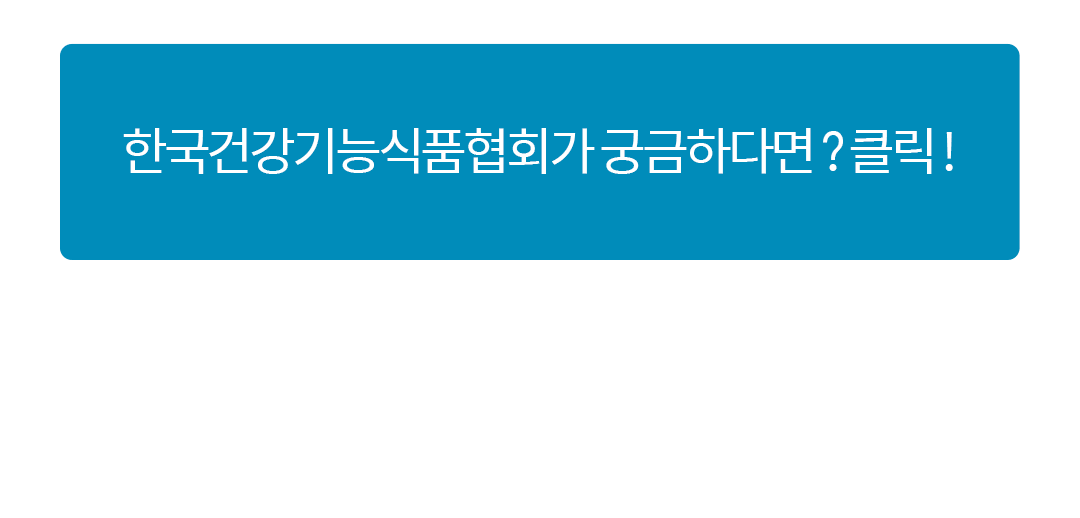
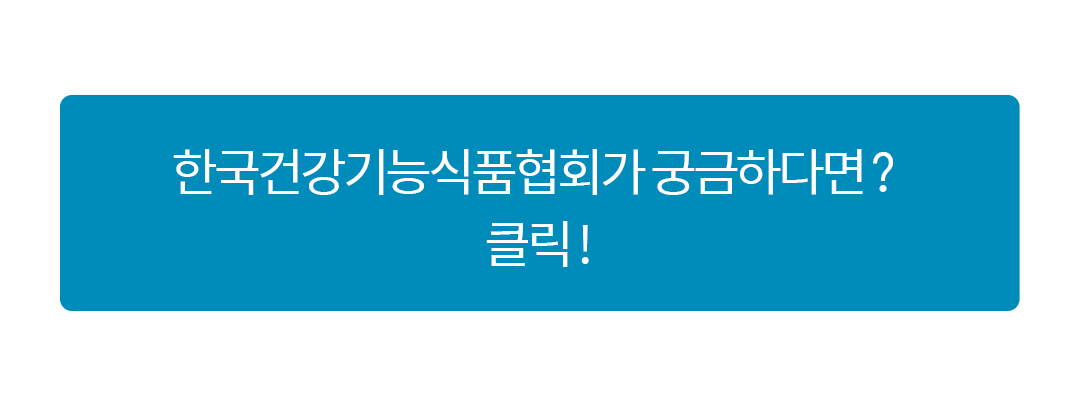
adjust styles

diff --git a/event/css/style.css b/event/css/style.css
@@ -99,7 +99,12 @@
     user-select: none;
     color: #045ebf;
   }
-
+  .prev{
+    margin-left: 5px;
+  }
+  .next{
+    margin-right: 5px;
+  }
   .angle{
     position: relative;
     border: 1px solid;
@@ -184,7 +189,7 @@
 .w-100{
     width: 100%;
 }
-.desktop #section0 {
+#section0 {
   background: rgba(218,238,245,1);
   background: -moz-linear-gradient(top, rgba(218,238,245,1) 0%, rgba(218,238,245,1) 50%, rgba(255,255,255,1) 51%, rgba(255,255,255,1) 100%);
   background: -webkit-gradient(left top, left bottom, color-stop(0%, rgba(218,238,245,1)), color-stop(50%, rgba(218,238,245,1)), color-stop(51%, rgba(255,255,255,1)), color-stop(100%, rgba(255,255,255,1)));
@@ -216,12 +221,11 @@
 .desktop #section3 > div{
   background: #fff;
 }
-.mobile #section0{
-  background: #fff;
-}
 .mobile #section0 img {
   width: 100%;
-  height: 100%;
+  position: relative;
+  top: 50%;
+  transform: translateY(-50%);
 }
 .mobile #section1{
   width: 100%;
@@ -235,23 +239,38 @@
 .mobile #section2 > div {
   height: 100%;
   background: #fffeda;
-  display: flex;
-  flex-flow: row wrap;
-  justify-content: center;
-  position: relative
+  position: relative;
 }
 .mobile #section2 > div a{
   position: absolute;
   width: 100%;
-  height: 100px;
+  height: 200px;
   bottom: 10px;
 }
 .mobile #section2 > div img {
-  height: 100%;
-  width: 97%;
+  width: 100%;
+  position: relative;
+  top: 50%;
+  transform: translateY(-50%);
 }
 .active, .dot:hover {
   background-color: transparent !important;
+}
+.mobile #section3 {
+  padding-top: 7px;
+}
+.mobile #section3 > div {
+  display: flex;
+  flex-flow: row wrap;
+  align-content: center;
+}
+.mobile #section3 .mySlides img {
+  width: 75% !important;
+  margin: 0 auto;
+}
+.mobile .mobile-last-button {
+  width: 90%;
+  margin: 0 auto;
 }
 @media(max-width: 768px){
     .desktop{

diff --git a/event/index.html b/event/index.html
@@ -81,7 +81,7 @@
                 </a>
             </div>
             <a href="https://khsa.or.kr" class="w-100" target="_blank">
-                <img src="image/mobile/button2.png" alt="mobile_image">
+                <img class="mobile-last-button" src="image/mobile/button2.png" alt="mobile_image">
             </a>
         </div>
     </div>
